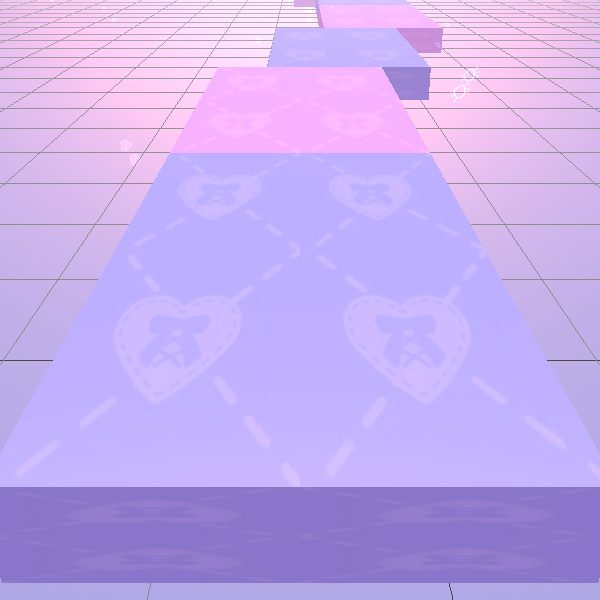
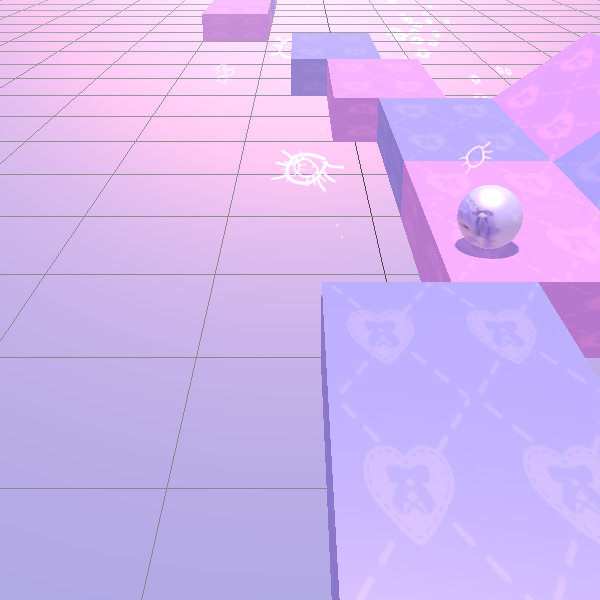
Fix amiyabars texture facing the wrong way. Update level 1.

diff --git a/js/maps/MapGenerator.js b/js/maps/MapGenerator.js
@@ -6,9 +6,7 @@ mapData["1"] = {};
 mapData["2"] = {};
 mapData["3"] = {};
 
-mapData["1"]["1"] = "1~Player,2,5,85,2347,0,0.6,0,1,1,1|Tile1,0,0,10,0,0,0,0,2,1,2|Tile2,1,0,10,200,0,0,0,2,1,2|Tile3,0,-30,10,400,0,0,0,2,1,2|Tile4,1,-70,10,600,0,0,0,2,1,2|Tile5,0,-70,10,800,0,0,0,2,1,2|Tile6,1,-30,10,975,0,0,0,1.5,1,1.5|Tile7,0,10,10,1125,0,0,0,1.5,1,1.5|Tile8,1,50,10,1275,0,0,0,1.5,1,1.5|Tile9,0,50,10,1425,0,0,0,1.5,1,1.5|Tile10,1,50,10,1550,0,0,0,1,1,1|Tile11,0,50,10,1650,0,0,0,1,1,1|Tile12,1,30,10,1750,0,0,0,1,1,1|Tile13,0,0,10,1850,0,0,0,1,1,1|Tile14,1,-20,10,1950,0,0,0,1,1,1|Tile15,0,-20,10,2050,0,0,0,1,1,1|Tile16,1,10,10,2200,0,0,0,2,1,2|Goal,0,10,65,2350,0,0,0,1,1,1"
-mapData["1"]["2"] = "1~Tile0,0,0,10,0,0,0,0,2,1,2|Tile1,1,0,10,175,0,0,0,1.5,1,1.5|Tile2,0,0,10,300,0,0,0,1,1,1|Tile3,1,0,10,400,0,0,0,1,1,1|Tile4,0,0,10,550,0,0,0,1,1,1|Tile5,1,0,10,650,0,0,0,1,1,1|Tile6,0,0,10,800,0,0,0,1,1,1|Tile7,1,0,10,900,0,0,0,1,1,1|Tile8,0,0,10,1075,0,0,0,1,1,1|Tile9,1,0,10,1175,0,0,0,1,1,1|Tile10,0,0,10,1350,0,0,0,1,1,1|Tile11,1,-50,10,1500,0,0,0,1,1,1|Tile12,0,-50,10,1600,0,0,0,1,1,1|Tile13,1,-50,10,1700,0,0,0,1,1,1|Tile14,0,0,10,1875,0,0,0,1,1,1|Tile15,1,0,10,1975,0,0,0,1,1,1|Tile16,0,0,30,2075,0,0,0,1,1,1|Tile17,1,0,30,2175,0,0,0,1,1,1|Tile18,0,0,15,2375,0,0,0,1,1,1|Tile19,1,0,15,2475,0,0,0,1,1,1|Tile20,0,-40,15,2625,0,0,0,1,1,1|Tile21,1,10,15,2775,0,0,0,1,1,1|Tile22,0,50,15,2925,0,0,0,1,1,1|Tile23,1,-10,15,3075,0,0,0,1,1,1|Goal,2,-10,70,3175,0,0,0,1,1,1|Player,2,78,35,2682,0,0,0,1,1,1|AmiyaBar26,1,0,10,1425,0,0,0,1,1,1|AmiyaBar27,0,0,10,1275,0,0,0,1,1,1|AmiyaBar28,1,80,15,2600,0,0,0,1,1,1|Tile29,0,80,15,2675,0,0,0,1,1,1"
-mapData["1"]["3"] = "1~Player,2,4,85,2131,0,0,0,1,1,1|Tile1,0,0,10,0,0.1,0,0,1.75,1,1.75|Tile2,1,0,-10,175,0,0,0,1.75,1,1.75|Tile3,0,0,0,325,-0.1,0,0,1.25,1,1.25|Tile4,1,0,10,450,0,0,0,1.25,1,1.25|Tile5,0,0,10,625,0,0,0,1,1,1|Tile6,1,0,10,725,0,0,0,1,1,1|Tile7,0,20,10,825,0,0,0.1,1,1,1|Tile8,1,20,10,925,0,0,0.1,1,1,1|Tile9,0,20,10,1025,0,0,0.1,1,1,1|Tile10,1,20,10,1125,0,0,0.1,1,1,1|Tile11,0,20,10,1225,0,0,0.1,1,1,1|Tile12,1,-10,5,1350,0,0,0,1.25,1,1.25|Tile13,0,-30,5,1500,0,0,-0.30000000000000004,1.75,1,1.75|Tile14,1,-30,5,1675,0,0,-0.30000000000000004,1.75,1,1.75|Tile15,0,-30,5,1850,0,0,-0.30000000000000004,1.75,1,1.75|Tile16,1,0,-5,2025,0,0,0,1.75,1,1.75|Goal,0,0,65,2125,0,0,0,1,1,1"
+mapData["1"]["1"] = "1~Tile0,0,0,10,0,0,0,0,1,1,1|Tile1,1,0,10,100,0,0,0,1,1,1|Tile2,0,0,10,200,0,0,0,1,1,1|Tile3,1,0,10,375,0,0,0,1,1,1|Tile4,0,0,10,475,0,0,0,1,1,1|Tile5,1,0,10,575,0,0,0,1,1,1|Tile6,0,0,10,825,0,0,0,1,1,1|Tile7,1,0,10,925,0,0,0,1,1,1|Tile8,0,0,10,1025,0,0,0,1,1,1|Tile9,1,0,10,1325,0,0,0,1,1,1|AmiyaBar,2,0,10,1400,0,0,0,1,1,1|AmiyaBar,2,0,10,1450,0,0,0,1,1,1|AmiyaBar,2,0,10,1500,0,0,0,1,1,1|Tile14,1,0,10,1575,0,0,0,1,1,1|Tile15,0,-30,10,1675,0,0,0,1,1,1|Tile16,1,-60,10,1775,0,0,0,1,1,1|Tile17,0,-60,10,1875,0,0,0,1,1,1|Tile18,1,-110,25,1875,0,0,-0.30000000000000004,1,1,1|Tile19,0,-110,25,1775,0,0,-0.30000000000000004,1,1,1|Tile20,1,-40,10,1975,0,0,0,1,1,1|Tile21,0,-20,10,2075,0,0,0,1,1,1|Tile22,1,50,10,2275,0,0,0,1,1,1|Tile23,0,50,10,2375,0,0,0,1,1,1|Tile24,1,50,10,2475,0,0,0,1,1,1|Tile25,0,0,10,2675,0,0,0,1,1,1|Tile26,1,0,10,2775,0,0,0,1,1,1|Tile27,0,0,30,2950,0,0,0,1,1,1|Tile28,1,0,30,3050,0,0,0,1,1,1|Tile29,0,0,20,3150,0.1,0,0,1,1,1|Tile30,1,0,10,3250,0,0,0,1,1,1|Tile31,0,0,10,3350,0,0,0,1,1,1|Player,2,-4,91,4908,0,0,0,1,1,1|Tile32,1,0,10,3450,0,0,0,1,1,1|Tile33,0,0,10,3600,0,0,0,2,1,2|Tile34,1,0,10,3800,0,0,0,2,1,2|Tile35,0,30,30,3775,0,0,0,1,1,1|Tile36,1,-20,30,3600,0,0,0,1,1,1|Tile37,0,30,35,4025,0,0,0,1,1,1|Tile38,1,-30,10,4025,0,0,0,1,1,1|Tile39,0,-30,10,4125,0,0,0,1,1,1|AmiyaBar40,1,30,35,4100,0,0,0,1,1,1|Tile41,0,30,35,4175,0,0,0,1,1,1|Tile42,1,-30,10,4225,0,0,0,1,1,1|Tile43,0,0,10,4325,0,0,0,1,1,1|Tile44,1,0,10,4425,0,0,0,1,1,1|Tile45,0,0,10,4525,0,0,0,1,1,1|Tile46,1,0,10,4625,0,0,0,1,1,1|Tile47,0,0,10,4825,0,0,0,1,1,1|Goal,1,0,70,4900,0,0,0,1,1,1"
 mapData["1"]["4"] = "1~Tile0,0,0,10,0,0,0,0,2,1,2|Tile1,1,0,10,200,0,0,0,2,1,2|Tile2,0,0,10,425,0,0,0,2,1,2|Tile3,1,0,10,650,0,0,0,1.5,1,1.5|Tile4,0,0,10,800,0,0,0,1.5,1,1.5|Tile5,1,0,10,1025,0,0,0,1,1,1|Tile6,0,0,10,1125,0,0,0,1,1,1|Tile7,1,0,10,1375,0,0,0,1,1,1|Tile8,0,0,10,1475,0,0,0,1,1,1|Tile9,1,-30,10,1625,0,0,0,1,1,1|Tile10,0,-30,10,1775,0,0,0,1,1,1|Tile11,1,20,10,1925,0,0,0,1,1,1|Tile12,0,20,10,2125,0,0,0,1,1,1|Tile13,1,20,10,2225,0,0,0,1,1,1|Tile14,0,-30,10,2375,0,0,0,1,1,1|Tile15,1,70,10,2375,0,0,0,1,1,1|Tile16,0,70,10,2475,0,0,0,1,1,1|Tile17,1,-30,10,2575,0,0,0,1,1,1|Tile18,0,70,10,2675,0,0,0,1,1,1|Tile19,1,70,10,2775,0,0,0,1,1,1|Tile20,0,-50,10,2775,0,0,0,1,1,1|Tile21,1,-50,10,2875,0,0,0,1,1,1|Tile22,0,-50,10,2975,0,0,0,1,1,1|Tile23,1,0,10,2975,0,0,0,1,1,1|Tile24,0,0,10,3075,0,0,0,1,1,1|Tile25,1,0,10,3275,0,0,0,1,1,1|AmiyaBar,2,0,10,3350,0,0,0,1,1,1|Tile27,1,0,10,3425,0,0,0,1,1,1|Tile28,0,0,10,3525,0,0,0,1,1,1|Tile29,1,0,10,3675,0,0,0,1,1,1|Tile30,0,0,10,3925,0,0,0,1,1,1|Tile31,1,0,10,4175,0,0,0,1,1,1|Tile32,0,0,30,4275,0,0,0,1,1,1|Tile33,1,0,30,4375,0,0,0,1,1,1|Tile34,0,0,25,4550,0,0,0,1,1,1|Tile35,1,0,25,4650,0,0,0,1,1,1|Tile36,0,0,25,4750,0,0,0,1,1,1|Goal,2,0,85,4825,0,0,0,1,1,1|Player,2,-79,30,2522,0,0,0,1,1,1|Tile39,0,40,50,1600,0,0,0,1,1,1|AmiyaBar40,1,40,50,1675,0,0,0,1,1,1|Tile41,0,40,50,1750,0,0,0,1,1,1|AmiyaBar42,1,-80,10,2600,0,0,0,1,1,1|Tile43,0,-80,10,2525,0,0,0,1,1,1"
 mapData["1"]["5"] = "1~Tile0,0,0,10,0,0,0,0,1,1,1|Tile1,1,0,10,100,0,0,0,1,1,1|Tile2,0,30,10,200,0,0,0.1,1,1,1|Tile3,1,40,10,300,0,0,0.2,1,1,1|Tile4,0,50,15,400,0,0,0.30000000000000004,1,1,1|Tile5,1,-30,15,525,0,0,-0.2,1,1,1|Tile6,0,-30,15,625,0,0,-0.2,1,1,1|Tile7,1,-30,15,725,0,0,-0.2,1,1,1|Tile8,0,50,15,825,0,0,0.2,1,1,1|Tile9,1,50,15,925,0,0,0.2,1,1,1|Tile10,0,50,15,1025,0,0,0.2,1,1,1|Tile11,1,-30,30,1075,0,0,-0.1,1,1,1|Tile12,0,-30,30,1175,0,0,-0.1,1,1,1|Tile13,1,50,10,1275,0,0,0.2,1,1,1|Tile14,0,50,10,1375,0,0,0.2,1,1,1|Tile15,1,-40,10,1475,0,0,-0.2,1,1,1|Tile16,0,-40,10,1575,0,0,-0.2,1,1,1|Tile17,1,-40,10,1750,0,0,-0.2,1,1,1|Tile18,0,-40,10,1850,0,0,-0.2,1,1,1|Tile19,1,-40,10,2100,0,0,-0.2,1,1,1|Tile20,0,-40,10,2200,0,0,-0.2,1,1,1|Tile21,1,30,10,2325,0,0,0.1,1,1,1|Tile22,0,30,10,2425,0,0,0.1,1,1,1|Player,2,-36,63,4367,0,0,0,1,1,1|Tile24,1,30,0,2600,0,0,0,2,1,2|Tile25,0,-70,0,2600,0,0,0,2,1,2|AmiyaBar26,1,-70,0,2750,0,0,0,2,1,2|AmiyaBar27,0,30,0,2750,0,0,0,2,1,2|Tile28,1,-20,0,2900,0,0,0,2,1,2|Tile29,0,-20,0,3050,0,0,0,1,1,1|Tile30,1,0,0,3225,0,0,0.1,1,1,1|Tile31,0,-50,0,3450,0,0,-0.1,1,1,1|Tile32,1,-50,0,3675,0,0,-0.30000000000000004,1,1,1|Tile33,0,-70,0,3875,0,0,-0.5,1,1,1|Tile34,1,0,5,4000,0,0,0.5,1,1,1|Tile35,0,-40,-5,4175,0,0,0,1,1,1|Tile36,1,-40,-5,4275,0,0,0,1,1,1|Goal,0,-40,45,4375,0,0,0,1,1,1"
 mapData["1"]["6"] = "1~Tile0,0,0,10,0,0,0,0,1,1,1|Tile1,1,0,10,125,0,0,0,1.5,1,1.5|Tile2,0,0,10,300,0,0,0,2,1,2|Tile3,1,100,50,300,0,0,0.1,2,1,2|Tile4,0,-100,50,300,0,0,-0.1,2,1,2|Tile5,1,-100,50,500,0,0,-0.1,2,1,2|Tile6,0,100,50,500,0,0,0.1,2,1,2|Tile7,1,0,30,500,-0.1,0,0,2,1,2|Ball8,0,130,125,250,-0.09805848449468613,0,0,2,2,2|Ball9,1,130,125,275,-0.09805848449468613,0,0,2,2,2|Ball10,0,130,125,300,-0.09805848449468613,0,0,2,2,2|Ball11,1,130,125,325,-0.09805848449468613,0,0,2,2,2|Ball12,0,130,125,350,-0.09805848449468613,0,0,2,2,2|Ball13,1,130,125,375,-0.09805848449468613,0,0,2,2,2|Ball14,0,130,125,400,-0.09805848449468613,0,0,2,2,2|Ball15,1,130,125,425,-0.09805848449468613,0,0,2,2,2|Ball16,0,130,125,450,-0.09805848449468613,0,0,2,2,2|Ball17,1,130,125,475,-0.09805848449468613,0,0,2,2,2|Ball18,0,130,125,500,-0.09805848449468613,0,0,2,2,2|Ball19,1,130,125,525,-0.09805848449468613,0,0,2,2,2|Ball20,0,130,125,550,-0.09805848449468613,0,0,2,2,2|Ball21,1,130,125,575,-0.09805848449468613,0,0,2,2,2|Ball22,0,30,125,575,-0.09805848449468613,0,0,2,2,2|Ball23,1,-30,125,575,-0.09805848449468613,0,0,2,2,2|Ball24,0,-130,125,575,-0.09805848449468613,0,0,2,2,2|Ball25,1,-130,125,550,-0.09805848449468613,0,0,2,2,2|Ball26,0,-130,125,525,-0.09805848449468613,0,0,2,2,2|Ball27,1,-130,125,500,-0.09805848449468613,0,0,2,2,2|Ball28,0,-130,125,475,-0.09805848449468613,0,0,2,2,2|Ball29,1,-130,125,450,-0.09805848449468613,0,0,2,2,2|Ball30,0,-130,125,425,-0.09805848449468613,0,0,2,2,2|Ball31,1,-130,125,400,-0.09805848449468613,0,0,2,2,2|Ball32,0,-130,125,375,-0.09805848449468613,0,0,2,2,2|Ball33,1,-130,125,350,-0.09805848449468613,0,0,2,2,2|Ball34,0,-130,125,325,-0.09805848449468613,0,0,2,2,2|Ball35,1,-130,125,300,-0.09805848449468613,0,0,2,2,2|Ball36,0,-130,125,275,-0.09805848449468613,0,0,2,2,2|Ball37,1,-130,125,250,-0.09805848449468613,0,0,2,2,2|Tile38,0,0,30,725,0,0,0,1,1,1|Tile39,1,0,20,875,0,0,0,1,1,1|Tile40,0,0,5,1025,0,0,0,1,1,1|Tile41,1,0,5,1125,0,0,0,1,1,1|Tile42,0,0,5,1275,0,0,0,2,1,2|Tile43,1,-100,15,1275,0,0,-0.1,2,1,2|Tile44,0,0,5,1475,0,0,0,2,1,2|Tile45,1,-100,15,1475,0,0,-0.1,2,1,2|Tile46,0,0,25,1675,0,0,0,2,1,2|Tile47,1,100,25,1475,0,0,0.2,2,1,2|Tile48,0,0,45,1875,-0.1,0,0,2,1,2|Tile49,1,100,25,1275,0,0,0.2,2,1,2|Ball50,0,40,25,1225,0,0,0,1,1,1|Ball51,1,20,25,1225,0,0,0,1,1,1|Ball52,0,0,25,1225,0,0,0,1,1,1|Ball53,1,-20,25,1225,0,0,0,1,1,1|Ball54,0,-40,25,1225,0,0,0,1,1,1|Ball55,1,-40,25,1250,0,0,0,1,1,1|Ball56,0,-20,25,1250,0,0,0,1,1,1|Ball57,1,0,25,1250,0,0,0,1,1,1|Ball58,0,20,25,1250,0,0,0,1,1,1|Ball59,1,40,25,1250,0,0,0,1,1,1|Ball60,0,40,25,1275,0,0,0,1,1,1|Ball61,1,20,25,1275,0,0,0,1,1,1|Ball62,0,0,25,1275,0,0,0,1,1,1|Ball63,1,-20,25,1275,0,0,0,1,1,1|Ball64,0,-40,25,1275,0,0,0,1,1,1|Ball65,1,-40,25,1300,0,0,0,1,1,1|Ball66,0,-20,25,1300,0,0,0,1,1,1|Ball67,1,0,25,1300,0,0,0,1,1,1|Ball68,0,20,25,1300,0,0,0,1,1,1|Ball69,1,40,25,1300,0,0,0,1,1,1|Ball70,0,40,25,1325,0,0,0,1,1,1|Ball71,1,20,25,1325,0,0,0,1,1,1|Ball72,0,0,25,1325,0,0,0,1,1,1|Ball73,1,-20,25,1325,0,0,0,1,1,1|Ball74,0,-40,25,1325,0,0,0,1,1,1|Ball75,1,-40,25,1350,0,0,0,1,1,1|Ball76,0,-20,25,1350,0,0,0,1,1,1|Ball77,1,0,25,1350,0,0,0,1,1,1|Ball78,0,20,25,1350,0,0,0,1,1,1|Ball79,1,40,25,1350,0,0,0,1,1,1|Ball80,0,40,25,1375,0,0,0,1,1,1|Ball81,1,20,25,1375,0,0,0,1,1,1|Ball82,0,0,25,1375,0,0,0,1,1,1|Ball83,1,-20,25,1375,0,0,0,1,1,1|Ball84,0,-40,25,1375,0,0,0,1,1,1|Ball85,1,-40,25,1400,0,0,0,1,1,1|Ball86,0,-20,25,1400,0,0,0,1,1,1|Ball87,1,0,25,1400,0,0,0,1,1,1|Ball88,0,20,25,1400,0,0,0,1,1,1|Ball89,1,40,25,1400,0,0,0,1,1,1|Ball90,0,40,25,1425,0,0,0,1,1,1|Ball91,1,20,25,1425,0,0,0,1,1,1|Ball92,0,0,25,1425,0,0,0,1,1,1|Ball93,1,-20,25,1425,0,0,0,1,1,1|Ball94,0,-40,25,1425,0,0,0,1,1,1|Ball95,1,-40,25,1450,0,0,0,1,1,1|Ball96,0,-20,25,1450,0,0,0,1,1,1|Ball97,1,0,25,1450,0,0,0,1,1,1|Ball98,0,20,25,1450,0,0,0,1,1,1|Ball99,1,40,25,1450,0,0,0,1,1,1|Ball100,0,40,25,1475,0,0,0,1,1,1|Ball101,1,20,25,1475,0,0,0,1,1,1|Ball102,0,0,25,1475,0,0,0,1,1,1|Ball103,1,-20,25,1475,0,0,0,1,1,1|Ball104,0,-40,25,1475,0,0,0,1,1,1|Ball105,1,-40,25,1500,0,0,0,1,1,1|Ball106,0,-20,25,1500,0,0,0,1,1,1|Ball107,1,0,25,1500,0,0,0,1,1,1|Ball108,0,20,25,1500,0,0,0,1,1,1|Ball109,1,40,25,1500,0,0,0,1,1,1|Ball110,0,40,25,1525,0,0,0,1,1,1|Ball111,1,20,25,1525,0,0,0,1,1,1|Ball112,0,0,25,1525,0,0,0,1,1,1|Ball113,1,-20,25,1525,0,0,0,1,1,1|Ball114,0,-40,25,1525,0,0,0,1,1,1|Ball115,1,-40,25,1550,0,0,0,1,1,1|Ball116,0,-20,25,1550,0,0,0,1,1,1|Ball117,1,0,25,1550,0,0,0,1,1,1|Ball118,0,20,25,1550,0,0,0,1,1,1|Ball119,1,40,25,1550,0,0,0,1,1,1|Ball120,0,0,160,1950,0,0,0,2,2,2|Ball122,1,-130,100,1300,0,0,0,2,2,2|Ball123,0,-130,100,1475,0,0,0,2,2,2|Ball124,1,130,100,1250,0,0,0,2,2,2|Ball125,0,130,100,1400,0,0,0,2,2,2|Player,2,-3,57,2729,0,0,0,1,1,1|Tile126,1,0,35,2225,0,0,0,1,1,1|Tile127,0,0,25,2325,0.1,0,0,1,1,1|Tile128,1,0,25,2425,-0.1,0,0,1,1,1|Ball129,0,-10,35,2375,0,0,0,1,1,1|Ball130,1,10,35,2375,0,0,0,1,1,1|Goal,0,0,35,2725,0,0,0,1,1,1"
@@ -705,7 +703,7 @@ class MapGenerator {
         }
 
         // grid
-        const gridTileCount = 200;
+        const gridTileCount = 500;
         const gridSize = TILE_WIDTH * gridTileCount;
         const gridHelper = new THREE.GridHelper(gridSize, gridTileCount);
         gridHelper.position.x = -TILE_WIDTH / 2;
